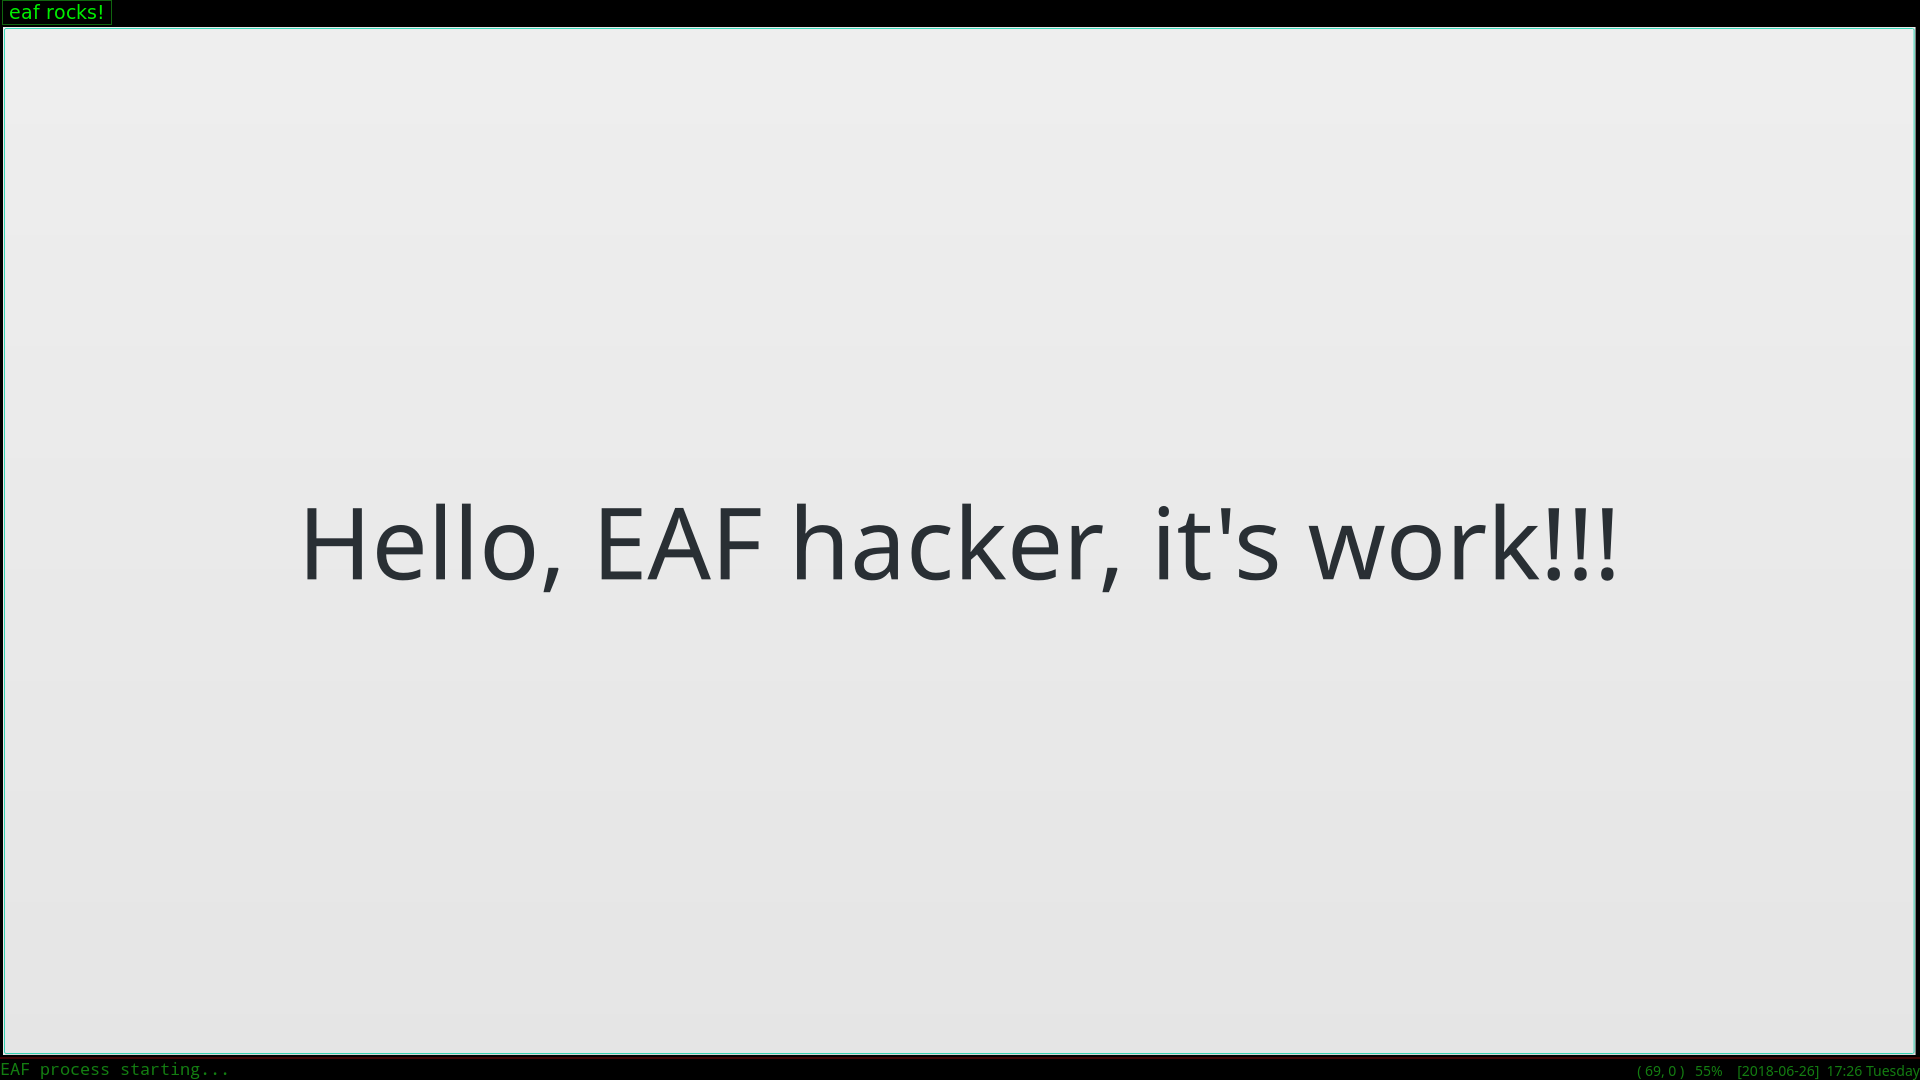
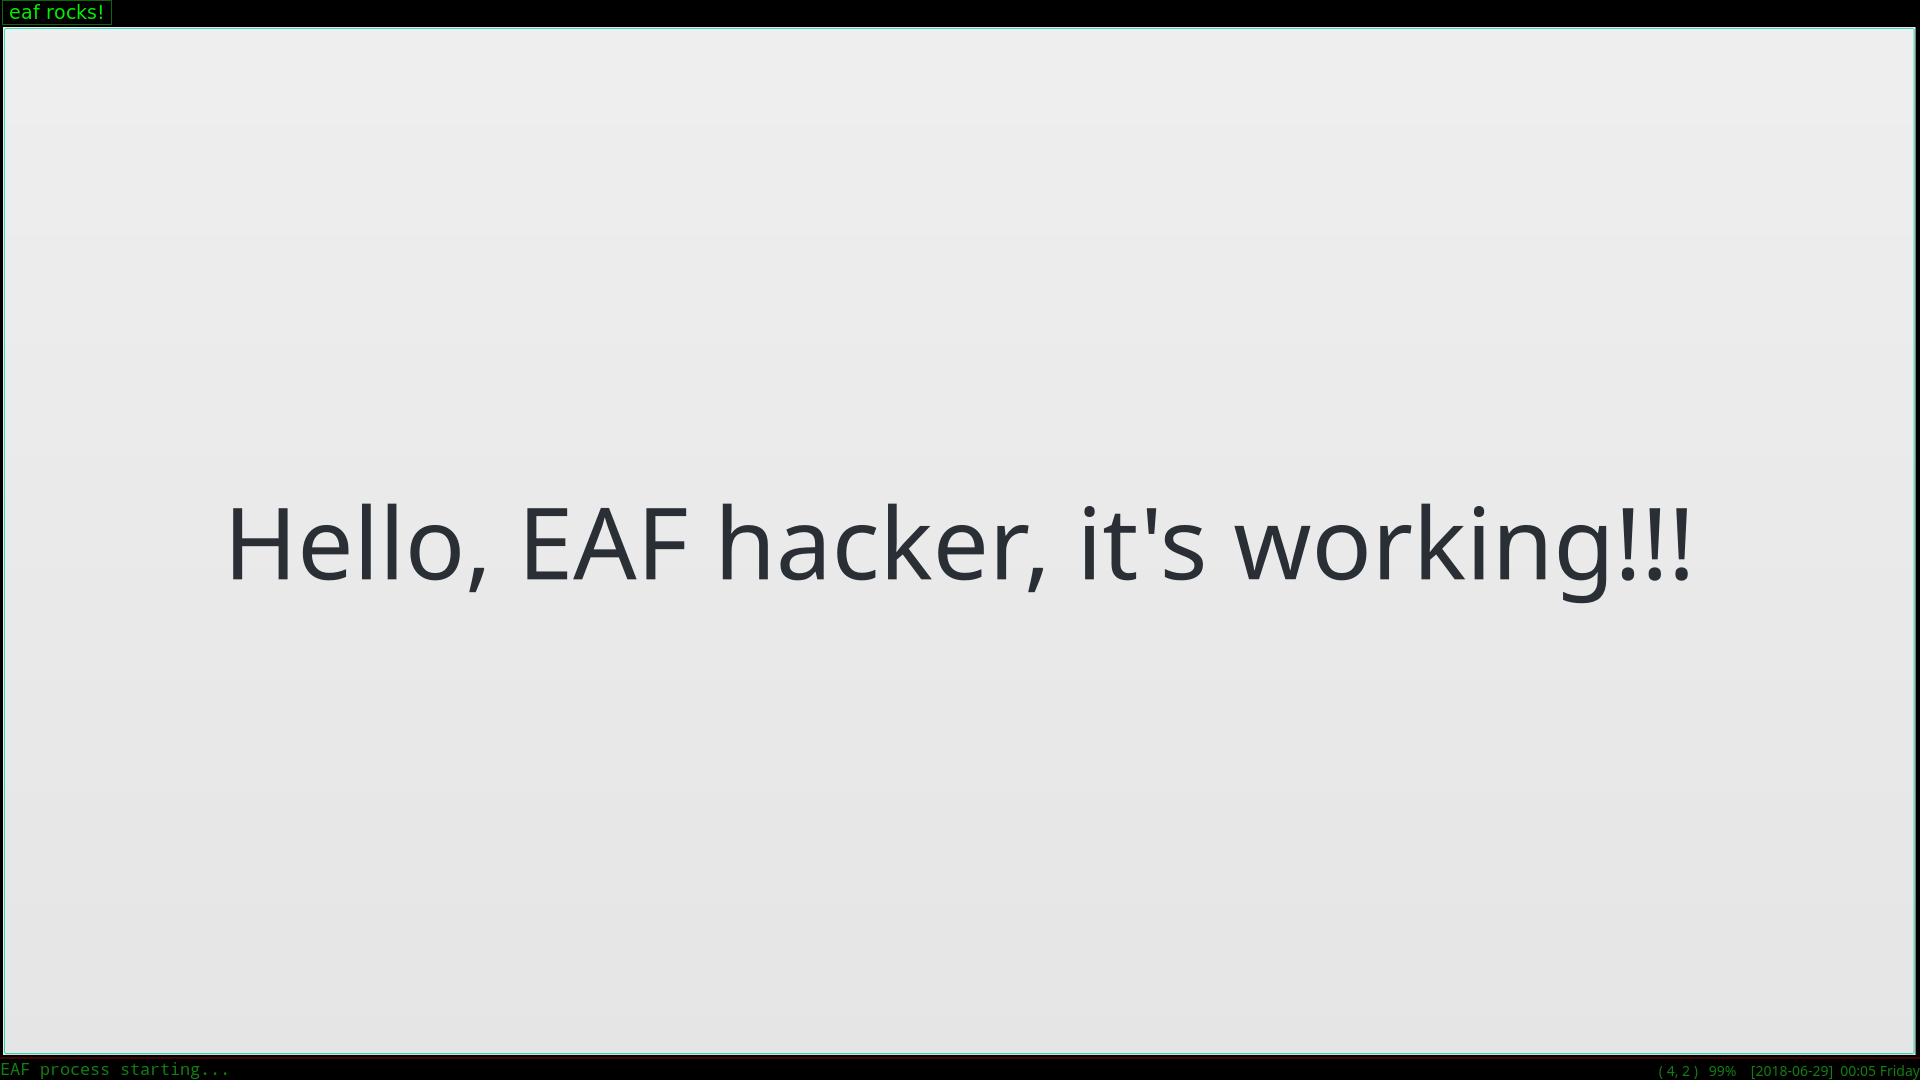
Fixed typo and update screenshot

Changed region(s): [[0.0938, 0.4583, 0.875, 0.5806], [0.8438, 0.9778, 1.0, 1.0]]

diff --git a/app/demo/buffer.py b/app/demo/buffer.py
@@ -27,5 +27,5 @@ class DemoBuffer(Buffer):
     def __init__(self, buffer_id, url):
         Buffer.__init__(self, buffer_id, url, True, QColor(0, 0, 0, 255))
 
-        self.add_widget(QPushButton("Hello, EAF hacker, it's work!!!"))
+        self.add_widget(QPushButton("Hello, EAF hacker, it's working!!!"))
         self.buffer_widget.setStyleSheet("font-size: 100px")
